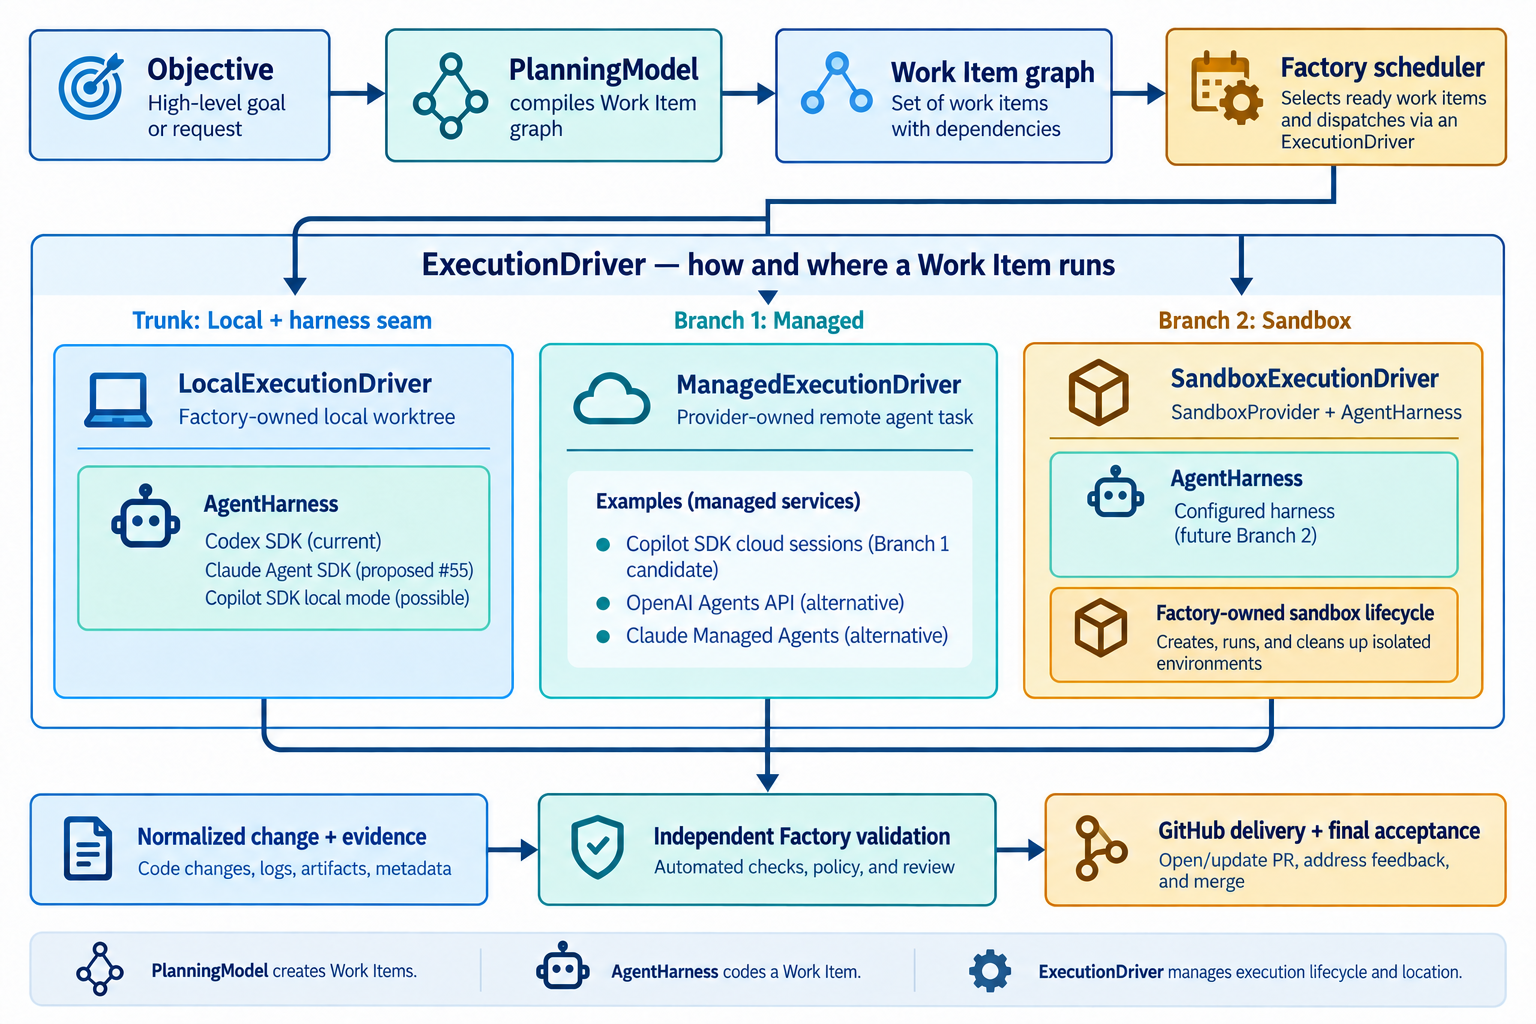
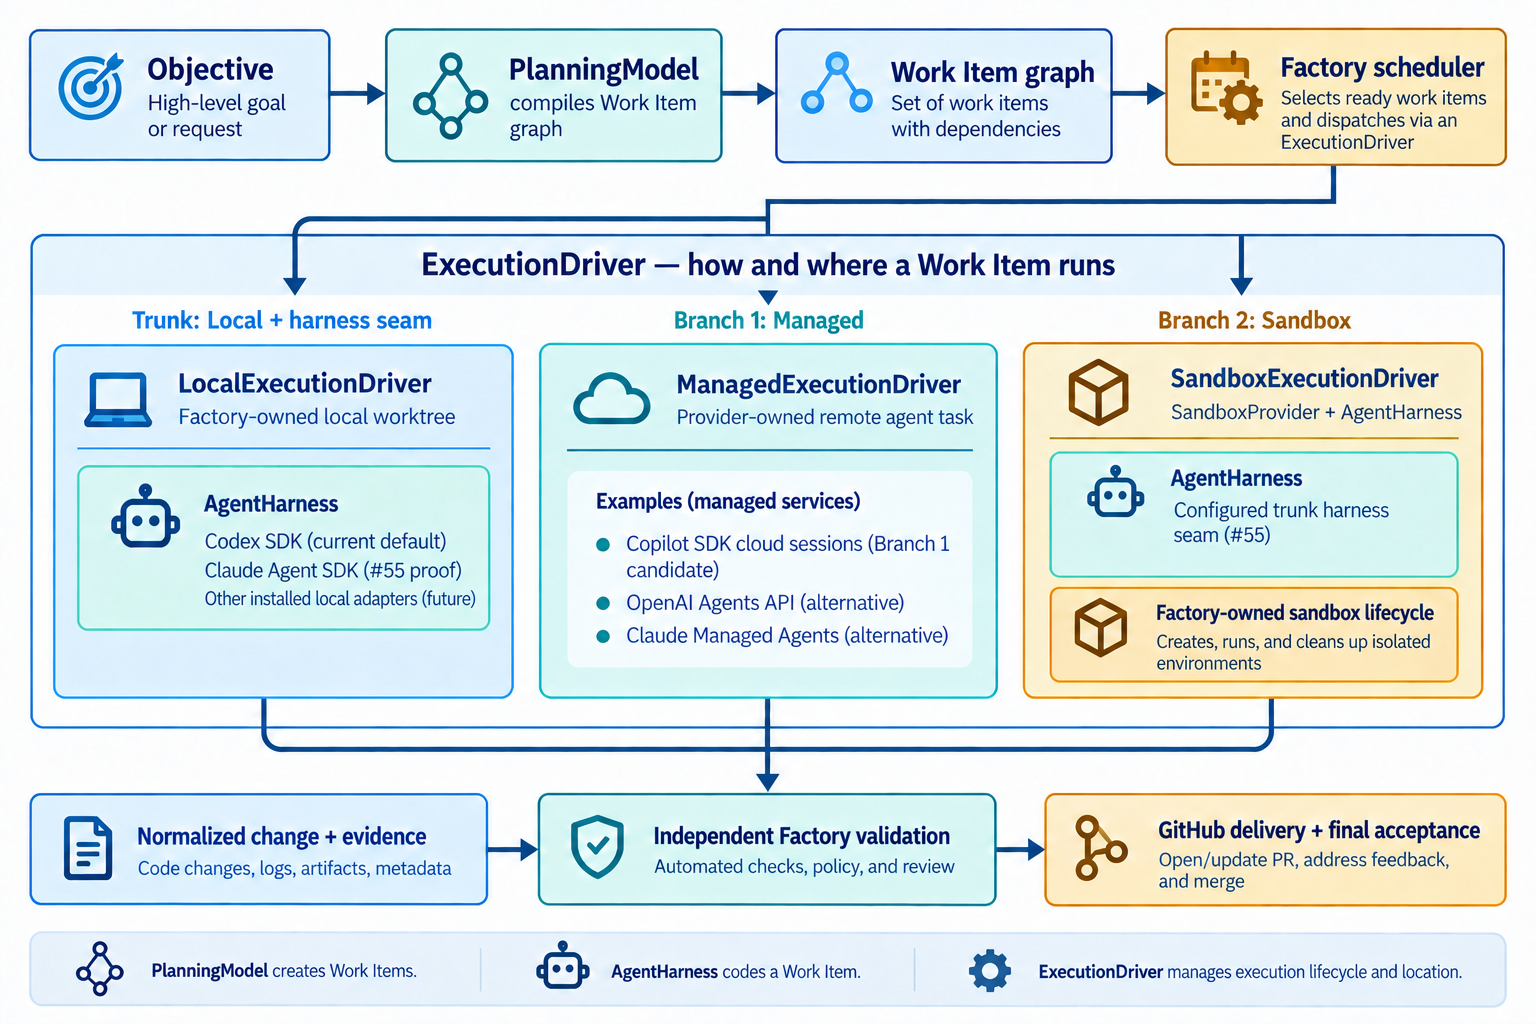
docs: refresh execution layering after v0.1.10

diff --git a/docs/BUILD-STATUS.md b/docs/BUILD-STATUS.md
@@ -71,6 +71,8 @@ Fresh installed [Objective #21](https://github.com/clockgrove/factory-v017-gate-
 
 **#67 source-correction checkpoint:** [PR #68](https://github.com/clockgrove/factory-rebuild/pull/68) merged independently audited head `e1efb36266c5945ff81874fd0195583789c03440` unchanged as main commit `9912188ec444908ca6dd6b61cc6f3ab7e08fc65c`. Final review now receives bounded supervisor-generated sources for each Work Item, tied to accepted ownership, immutable execution and result bases, exact result/integration commits and trees, changed objects, and raw patch excerpts. It excludes nested reviewer prose, rejects truncated or identity-inconsistent evidence, and preserves every rejected candidate with its exact field and reason. The prescribed local gate passed all 75 tests and package checks; hosted Quality run [36035212518](https://github.com/clockgrove/factory-rebuild/actions/runs/36035212518) passed at the exact audited head. Read-only proof construction against the preserved waiting v0.1.9 state produced complete sources for both Work Items without mutating that Objective. This is source acceptance, not released-artifact or live-Objective acceptance.
 
-**Next action:** release v0.1.10 from the merged #67 correction, independently verify its public provenance, checksum, package surface, and offline installation, then run a genuinely fresh disposable repository and Objective. Keep the v0.1.9 Objective unchanged and waiting. Close #44, #64, and #67 only after the new public artifact automatically passes the Work Item results and exact final integrated head from canonical evidence. Then complete the separately tracked installed BYO harness seam and real Claude proof in [#55](https://github.com/clockgrove/factory-rebuild/issues/55) before the private Clockgrove pilot [#26](https://github.com/clockgrove/factory-rebuild/issues/26). [#59](https://github.com/clockgrove/factory-rebuild/issues/59) separately owns the accepted future defaults of planner Sol/medium, reviewer Sol/medium, and worker Luna/medium. Do not reuse either waiting run, retag an older release, start cloud/sandbox/Daytona branches, cut over repositories, or claim trunk completion before those gates. `AGENTS.md` covers building Factory; packaged skills cover using it; the first release uses CLI plus installed skills, not MCP.
[1 lines of base64/hex data omitted]
+
+**Next action:** complete the independently selectable role defaults in [#59](https://github.com/clockgrove/factory-rebuild/issues/59) and the separately tracked installed BYO harness seam with real Claude proof in [#55](https://github.com/clockgrove/factory-rebuild/issues/55), then run the private Clockgrove pilot [#26](https://github.com/clockgrove/factory-rebuild/issues/26). Keep provider configuration in #55 rather than #59. Do not start managed, sandbox, Daytona, or other later branches before the trunk and pilot gates. `AGENTS.md` covers building Factory; packaged skills cover using it; the first release uses CLI plus installed skills, not MCP.
 
 **Explicit non-goals now:** managed-agent execution, sandbox providers, Daytona, automatic local/cloud bursting, distributed controllers, media generation providers, and private adopter-specific product work. Factory source must never be its own target. The public fixture files and Objective templates are sufficient to reproduce generic Factory acceptance in a repository the contributor controls.

diff --git a/docs/ARCHIVE-CAPABILITY-DECISIONS.md b/docs/ARCHIVE-CAPABILITY-DECISIONS.md
@@ -48,7 +48,7 @@ The archived paths are provenance, not required implementation instructions. An 
 | Capability and archive reference                                                                                                                                                 | Proposed disposition                                                                                       | Rationale / trigger                                                                                                                                                                                             |
 | -------------------------------------------------------------------------------------------------------------------------------------------------------------------------------- | ---------------------------------------------------------------------------------------------------------- | --------------------------------------------------------------------------------------------------------------------------------------------------------------------------------------------------------------- |
 | Managed coding-agent execution: `src/backends/github-copilot.ts`, `docs/PROVIDER-QUALIFICATION.md`.                                                                              | **Branch:** [#7](https://github.com/clockgrove/factory-rebuild/issues/7).                                  | `ManagedExecutionDriver` must prove the provider-owned task/result contract. Evaluate GitHub Copilot SDK cloud sessions, not its local mode; do not port archived Copilot lifecycle assumptions.                |
-| Sandbox execution plus chosen agent harness: `src/backends/vercel-sandbox.ts`, `src/backends/sandbox-common.ts`.                                                                 | **Branch:** [#8](https://github.com/clockgrove/factory-rebuild/issues/8).                                  | `SandboxExecutionDriver` composes `SandboxProvider` with trunk's installed `AgentHarness` seam; it does not design another BYO harness interface or emulate a managed agent.                                    |
+| Sandbox execution plus chosen agent harness: `src/backends/vercel-sandbox.ts`, `src/backends/sandbox-common.ts`.                                                                 | **Branch:** [#8](https://github.com/clockgrove/factory-rebuild/issues/8).                                  | After #55 lands, `SandboxExecutionDriver` composes `SandboxProvider` with trunk's installed `AgentHarness` seam; it does not design another BYO harness interface or emulate a managed agent.                   |
 | Daytona: `src/backends/daytona.ts`.                                                                                                                                              | **Branch:** [#9](https://github.com/clockgrove/factory-rebuild/issues/9).                                  | First sandbox provider after the provider-neutral path works; no trunk Daytona qualification.                                                                                                                   |
 | Local Codex CLI fallback and App Server durable sessions: `src/backends/codex-cli-local.ts`, `src/backends/codex-app-server.ts`, `docs/CODEX-APP-SERVER-SESSIONS.md`.            | **Defer these archived Codex alternatives.**                                                               | Trunk [#55](https://github.com/clockgrove/factory-rebuild/issues/55) proves the installed local harness seam with a separate provider; it does not justify porting the archived Codex CLI/App Server protocols. |
 | Provider budgets, economics and accounting: `src/control/budget.ts`, `src/economics/`, `docs/RUNTIME-ECONOMICS.md`.                                                              | **Defer provider-specific authorization to the paid-execution branch; leave old accounting protocol out.** | Local trunk need not invent pricing or paid-resource receipts. A paid provider must have explicit operator authority and truthful usage before activation.                                                      |

diff --git a/docs/IMPLEMENTATION-PLAN.md b/docs/IMPLEMENTATION-PLAN.md
@@ -86,7 +86,7 @@ The `v0.1.0` one-immutable-package combined disposable gate passed; [BUILD-STATU
 `PlanningModel` compiles and reviews the Work Item graph. `AgentHarness` performs one Work Item under a Factory-operated local or sandbox driver. The three peer `ExecutionDriver` implementations differ in placement and lifecycle ownership: trunk's `LocalExecutionDriver` operates a local worktree; Branch 1's `ManagedExecutionDriver` submits and tracks a provider-owned agent task; Branch 2's `SandboxExecutionDriver` operates a `SandboxProvider` and invokes the configured harness inside it. An SDK name alone does not determine whether an agent is local or managed.
 
 - [ManagedExecutionDriver, issue #7](https://github.com/clockgrove/factory-rebuild/issues/7): evaluate GitHub Copilot SDK [cloud sessions](https://docs.github.com/en/copilot/how-tos/copilot-sdk/features/cloud-sessions) as the initial GitHub-hosted candidate, then implement only if its durable task, authorization, cancellation, exact-change, and result semantics fit the `ExecutionDriver` contract. Copilot SDK local CLI/runtime mode is not a managed task. Persist provider identity, observe/cancel/collect, and feed unchanged validation and delivery. Prove the same disposable Objective with this driver.
-- [SandboxExecutionDriver, issue #8](https://github.com/clockgrove/factory-rebuild/issues/8): compose `SandboxProvider` with the installed harness seam already delivered by trunk issue #55. Prove transfer, execution, observation, cancellation, collection, and destruction with a provider-neutral fixture; do not redefine BYO harness installation or configuration in this branch.
+- [SandboxExecutionDriver, issue #8](https://github.com/clockgrove/factory-rebuild/issues/8): after trunk issue #55 lands, compose `SandboxProvider` with that installed harness seam. Prove transfer, execution, observation, cancellation, collection, and destruction with a provider-neutral fixture; do not redefine BYO harness installation or configuration in this branch.
 - [Daytona SandboxProvider, issue #9](https://github.com/clockgrove/factory-rebuild/issues/9): add the first concrete provider behind `SandboxExecutionDriver` and run the Branch 2 scenario unchanged. Keep Daytona details within its adapter.
 
 ## Test reset and representative gates
